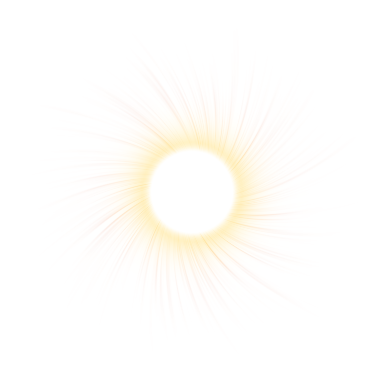
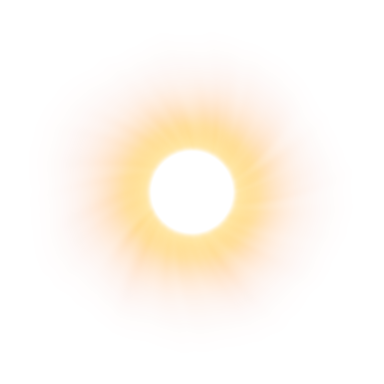
Gem light: a soft corona with swelling plumes on the sun, motion you can see, clear of the type pill
The sun's thin looping threads (which read as pencil strokes) are gone: its light is now a soft,
gently rayed corona, with broad plumes rooted at the rim that swell outward and fade one after
another. Every layer moves faster than the last pass (turns of 24 s to a few minutes, shimmers and
swells every 3-9 s, by more), so the light visibly lives. The light now fades out just below the
gem, so it never crosses the type pill's word.

Claude-Session: https://claude.ai/code/session_01AGgLXhEWFDWnAiYRCGkagM

Changed region(s): [[0.2188, 0.2188, 0.7812, 0.7812]]

diff --git a/src/styles.css b/src/styles.css
@@ -4903,34 +4903,38 @@ button.cmp-turn { display: flex; align-items: baseline; gap: 6px; padding: 5px 1
 }
 
 /* ---------- The rarity gem's light ---------- */
-/* The body in each gem is breaking out of it: its light spills faintly over the card, in the same fine detail as
-   the gem itself (scripts/render_gem_light.py). A white dwarf's glare and faint diffraction spikes breathe with
-   the gem while two fields of fine radial grain turn slowly against each other and shimmer; a sun's corona
-   streams out in fine streamers while thin threads of plasma arch off its rim and slowly swell; a black hole's
-   dust lanes are dragged round it, inward, past its rippling lensed ring. Everything moves slowly and by little,
-   each layer on its own clock and out of step with other cards (--gp). Only rotate, scale and opacity move,
-   which the compositor runs off the main thread. */
+/* The body in each gem is breaking out of it: its light spills over the card, in the same fine detail as the gem
+   itself (scripts/render_gem_light.py). A white dwarf's glare and diffraction spikes breathe with the gem while two
+   fields of fine radial grain turn against each other and shimmer; a sun's soft corona turns and breathes while
+   broad plumes swell out of it and fade, one after another; a black hole's dust lanes are dragged round it, inward,
+   past its rippling lensed ring. Each layer on its own clock, out of step with other cards (--gp). Only rotate,
+   scale and opacity move, which the compositor runs off the main thread. */
 .gem .gem-light { display: none; }
 /* (The light images are 1 / 0.26 gem-widths across, centred on the gem.) */
-.card .gem .gem-light { display: block; position: absolute; inset: -142.3%; z-index: -2; pointer-events: none; opacity: 1; }
-.card.kind-command .gem .gem-light { opacity: 1; }
+.card .gem .gem-light {
+  display: block; position: absolute; inset: -142.3%; z-index: -2; pointer-events: none;
+  /* Up and round the gem only: it fades out just below the gem, so it never crosses the type pill's word. */
+  -webkit-mask: linear-gradient(180deg, #000 50%, transparent 63%); mask: linear-gradient(180deg, #000 50%, transparent 63%);
+}
 .gem-light .gl { position: absolute; inset: 0; display: block; background-size: 100% 100%; will-change: transform, opacity; }
 .gl-spikes { background-image: var(--gem-lightDwarfSpikes); animation: glBreathe 3.8s ease-in-out infinite; animation-delay: calc(var(--gp) * -3.8s); }
-.gl-shimmer1 { background-image: var(--gem-lightDwarfShimmer1); animation: glTurn 300s linear infinite, glShimmer 7s ease-in-out infinite; animation-delay: calc(var(--gp) * -300s), calc(var(--gp) * -7s); }
-.gl-shimmer2 { background-image: var(--gem-lightDwarfShimmer2); animation: glTurnBack 220s linear infinite, glShimmer 9.5s ease-in-out infinite; animation-delay: calc(var(--gp) * -220s), calc(var(--gp) * -9.5s - 3s); }
-.gl-sparks { background-image: var(--gem-lightDwarfSparks); animation: glTurn 480s linear infinite, glShimmer 6s ease-in-out infinite; animation-delay: calc(var(--gp) * -480s), calc(var(--gp) * -6s); }
-.gl-corona1 { background-image: var(--gem-lightSunCorona1); animation: glTurn 360s linear infinite, glBreathe 5.5s ease-in-out infinite; animation-delay: calc(var(--gp) * -360s), calc(var(--gp) * -5.5s); }
-.gl-corona2 { background-image: var(--gem-lightSunCorona2); animation: glTurnBack 480s linear infinite, glShimmer 8s ease-in-out infinite; animation-delay: calc(var(--gp) * -480s), calc(var(--gp) * -8s); }
-.gl-flares1 { background-image: var(--gem-lightSunFlares1); animation: glTurn 600s linear infinite, glSwell 11s ease-in-out infinite; animation-delay: calc(var(--gp) * -600s), calc(var(--gp) * -11s); }
-.gl-flares2 { background-image: var(--gem-lightSunFlares2); animation: glTurnBack 780s linear infinite, glSwell 14s ease-in-out infinite; animation-delay: calc(var(--gp) * -780s), calc(var(--gp) * -14s - 5s); }
+.gl-shimmer1 { background-image: var(--gem-lightDwarfShimmer1); animation: glTurn 90s linear infinite, glShimmer 4.5s ease-in-out infinite; animation-delay: calc(var(--gp) * -90s), calc(var(--gp) * -4.5s); }
+.gl-shimmer2 { background-image: var(--gem-lightDwarfShimmer2); animation: glTurnBack 65s linear infinite, glShimmer 6s ease-in-out infinite; animation-delay: calc(var(--gp) * -65s), calc(var(--gp) * -6s - 2s); }
+.gl-sparks { background-image: var(--gem-lightDwarfSparks); animation: glTurn 150s linear infinite, glTwinkle 3.2s ease-in-out infinite; animation-delay: calc(var(--gp) * -150s), calc(var(--gp) * -3.2s); }
+.gl-corona1 { background-image: var(--gem-lightSunCorona1); animation: glTurn 120s linear infinite, glBreathe 5.5s ease-in-out infinite; animation-delay: calc(var(--gp) * -120s), calc(var(--gp) * -5.5s); }
+.gl-corona2 { background-image: var(--gem-lightSunCorona2); animation: glTurnBack 160s linear infinite, glShimmer 7s ease-in-out infinite; animation-delay: calc(var(--gp) * -160s), calc(var(--gp) * -7s); }
+/* The plumes: each swells outward from the rim and fades, then the other, as if the sun were pushing out. */
+.gl-flares1 { background-image: var(--gem-lightSunFlares1); animation: glTurn 200s linear infinite, glPlume 7s ease-out infinite; animation-delay: calc(var(--gp) * -200s), calc(var(--gp) * -7s); }
+.gl-flares2 { background-image: var(--gem-lightSunFlares2); animation: glTurnBack 260s linear infinite, glPlume 9s ease-out infinite; animation-delay: calc(var(--gp) * -260s), calc(var(--gp) * -9s - 4s); }
 /* (Turning forward, the lanes' spirals sweep inward: the hole is pulling the light in.) */
-.gl-swirl1 { background-image: var(--gem-lightHoleSwirl1); animation: glTurn 60s linear infinite, glShimmer 8s ease-in-out infinite; animation-delay: calc(var(--gp) * -60s), calc(var(--gp) * -8s); }
-.gl-swirl2 { background-image: var(--gem-lightHoleSwirl2); animation: glTurn 110s linear infinite, glShimmer 12s ease-in-out infinite; animation-delay: calc(var(--gp) * -110s), calc(var(--gp) * -12s - 4s); }
-.gl-lens { background-image: var(--gem-lightHoleLens); animation: glLens 6s ease-in-out infinite; animation-delay: calc(var(--gp) * -6s); }
+.gl-swirl1 { background-image: var(--gem-lightHoleSwirl1); animation: glTurn 24s linear infinite, glShimmer 5s ease-in-out infinite; animation-delay: calc(var(--gp) * -24s), calc(var(--gp) * -5s); }
+.gl-swirl2 { background-image: var(--gem-lightHoleSwirl2); animation: glTurn 42s linear infinite, glShimmer 7.5s ease-in-out infinite; animation-delay: calc(var(--gp) * -42s), calc(var(--gp) * -7.5s - 3s); }
+.gl-lens { background-image: var(--gem-lightHoleLens); animation: glLens 4s ease-in-out infinite; animation-delay: calc(var(--gp) * -4s); }
 @keyframes glTurn { to { rotate: 360deg; } }
 @keyframes glTurnBack { to { rotate: -360deg; } }
-@keyframes glBreathe { 0%, 100% { scale: 0.97; opacity: 0.8; } 50% { scale: 1.03; opacity: 1; } }
-@keyframes glShimmer { 0%, 100% { opacity: 0.7; } 35% { opacity: 1; } 65% { opacity: 0.8; } }
-@keyframes glSwell { 0%, 100% { scale: 0.98; opacity: 0.7; } 50% { scale: 1.04; opacity: 1; } }
-@keyframes glLens { 0%, 100% { scale: 0.99; opacity: 0.8; } 50% { scale: 1.015; opacity: 1; } }
-@media (prefers-reduced-motion: reduce) { .gem-light .gl { animation-duration: 1200s, 30s; } .gl-spikes, .gl-lens { animation-duration: 30s; } }
+@keyframes glBreathe { 0%, 100% { scale: 0.95; opacity: 0.65; } 50% { scale: 1.05; opacity: 1; } }
+@keyframes glShimmer { 0%, 100% { opacity: 0.45; } 35% { opacity: 1; } 65% { opacity: 0.65; } 85% { opacity: 0.9; } }
+@keyframes glTwinkle { 0%, 100% { opacity: 0.3; } 30% { opacity: 1; } 55% { opacity: 0.5; } 75% { opacity: 0.9; } }
+@keyframes glPlume { 0% { scale: 0.85; opacity: 0; } 25% { opacity: 1; } 70% { opacity: 0.6; } 100% { scale: 1.2; opacity: 0; } }
+@keyframes glLens { 0%, 100% { scale: 0.98; opacity: 0.7; } 50% { scale: 1.03; opacity: 1; } }
+@media (prefers-reduced-motion: reduce) { .gem-light .gl { animation-duration: 600s, 20s; } .gl-spikes, .gl-lens { animation-duration: 20s; } }

diff --git a/scripts/render_gem_light.py b/scripts/render_gem_light.py
@@ -3,7 +3,7 @@
 """Render the light each rarity gem throws out onto its card (src/ui/gems/light-*.png).
 
 The body inside the gem is trying to break out: a white dwarf's searing spikes and shimmering filaments, a
-sun's corona streaming out in curling streamers with prominences looping off its edge, a black hole's
+sun's corona streaming out in curling streamers and swelling plumes, a black hole's
 accretion streaks spiralling in and its lensed ring. Each is a few layers that CSS turns, breathes and
 flickers out of step (styles.css, "The rarity gem's light"), so the light never repeats.
 
@@ -72,15 +72,6 @@ def polar_noise(seed, n_th, n_r, sig_th, sig_r, warp=0.0):
     return map_coordinates(P, [ang / (2 * np.pi) * n_th, np.clip(r, 0, 1) * (n_r - 1)], order=1, mode='wrap')
 
 
-def splat(points, weights, sigma):
-    """Points (in image units) drawn as soft dots, summed."""
-    img = np.zeros((N, N))
-    xs = np.clip(((points[:, 0] + 1) / 2 * N).astype(int), 0, N - 1)
-    ys = np.clip(((points[:, 1] + 1) / 2 * N).astype(int), 0, N - 1)
-    np.add.at(img, (ys, xs), weights)
-    return gaussian_filter(img, sigma)
-
-
 def rays(light, seed, n, width, length, colour_in, colour_out, bright, angles=None):
     """Thin straight rays out of the gem: random filaments, or set spikes when `angles` is given."""
     g = np.random.default_rng(seed)
@@ -131,31 +122,28 @@ def sun_heat(t):
     t = np.clip(t, 0, 1)[..., None]
     return np.where(t < 0.33, mix(CORE, GOLD, t[..., 0] / 0.33), np.where(t < 0.66, mix(GOLD, ORANGE, (t[..., 0] - 0.33) / 0.33), mix(ORANGE, RED, (t[..., 0] - 0.66) / 0.34)))
 
-for i, (seed, warp) in enumerate([(31, 0.35), (32, -0.28)]):   # the corona: fine streamers, curling a little as they leave
+def around(seed, n, blur, turn=0.0):
+    """Noise that varies only round the circle (the same all the way out), 0 to 1, turned by `turn` radians."""
+    g = np.random.default_rng(seed)
+    ring = gaussian_filter(g.random(n), blur, mode='wrap'); ring = (ring - ring.min()) / (ring.max() - ring.min())
+    return np.interp(((th - turn) % (2 * np.pi)) / (2 * np.pi) * n, np.arange(n + 1), np.append(ring, ring[0]))
+
+for i, (seed, warp) in enumerate([(31, 0.3), (32, -0.25)]):   # the corona: soft rays, brighter and dimmer round it, curling a little
     L = Light()
-    s = polar_noise(seed, 1080, 128, 1.2, 20, warp)
-    s2 = polar_noise(seed + 100, 360, 128, 4, 12, warp * 1.3)
-    streak = np.clip(s * 1.5 - 0.66, 0, 1) ** 2 * (0.4 + 0.8 * s2)
-    L.add(10.0 * streak * np.exp(-near / (0.12 + 0.09 * s2)), sun_heat(0.25 + near / 0.32))
+    soft = polar_noise(seed, 540, 128, 3.0, 26, warp)                # soft rays
+    broad = polar_noise(seed + 100, 120, 128, 3, 20, warp)          # where the corona is thicker
+    ray = (0.35 + 0.65 * np.clip(soft * 1.4 - 0.3, 0, 1) ** 1.5) * (0.4 + 0.8 * broad)
+    L.add(5.0 * ray * np.exp(-near / (0.08 + 0.08 * broad)), sun_heat(0.15 + near / 0.5))
     L.add(1.4 * np.exp(-near / 0.05), CORE)
     L.save(f'light-sun-corona{i + 1}.png')
 
-for i, seed in enumerate([41, 42]):   # prominences: thin threads of plasma arching off the rim, broken and faint
-    g = np.random.default_rng(seed)
+for i, seed in enumerate([41, 42]):   # plumes: two or three broad tongues of corona rooted at the rim, which CSS swells and fades
     L = Light()
-    for _ in range(3):
-        a0, span, h = g.random() * 2 * np.pi, 0.1 + 0.16 * g.random(), 0.06 + 0.1 * g.random()
-        lean = (g.random() - 0.5) * 0.3
-        t = np.linspace(0, 1, 1400)
-        for strand in range(3):   # each loop a few threads, a hair apart
-            off = (strand - 1) * 0.006
-            rr = G * 0.98 + (h + off) * np.sin(np.pi * t)
-            aa = a0 + span * (t - 0.5) + lean * np.sin(np.pi * t) ** 2 + off
-            pts = np.stack([rr * np.cos(aa), rr * np.sin(aa)], axis=1)
-            knots = np.interp(t, np.linspace(0, 1, 12), g.random(12)) ** 2     # brighter and dimmer along it
-            w = (0.25 + 0.75 * knots) / len(t) * 90
-            L.add(splat(pts, w, 1.0) * 1.0, sun_heat(np.full((N, N), 0.3)))
-            L.add(splat(pts, w, 3.0) * 1.6, ORANGE)
+    tongue = around(seed, 360, 9, turn=np.pi * 0.85 * i)          # (the second set faces another way)
+    q = np.quantile(tongue, 0.8)
+    tongue = np.clip((tongue - q) / (1 - q), 0, 1) ** 1.3
+    texture = polar_noise(seed + 50, 540, 128, 2.5, 18, 0.25 if i == 0 else -0.25)
+    L.add(7.0 * tongue * (0.6 + 0.5 * texture) * np.exp(-near / (0.14 + 0.1 * tongue)), sun_heat(0.1 + near / 0.5))
     L.save(f'light-sun-flares{i + 1}.png')
 
 # ---------------------------------------------------------------- Anomaly: light dragged round a black hole
